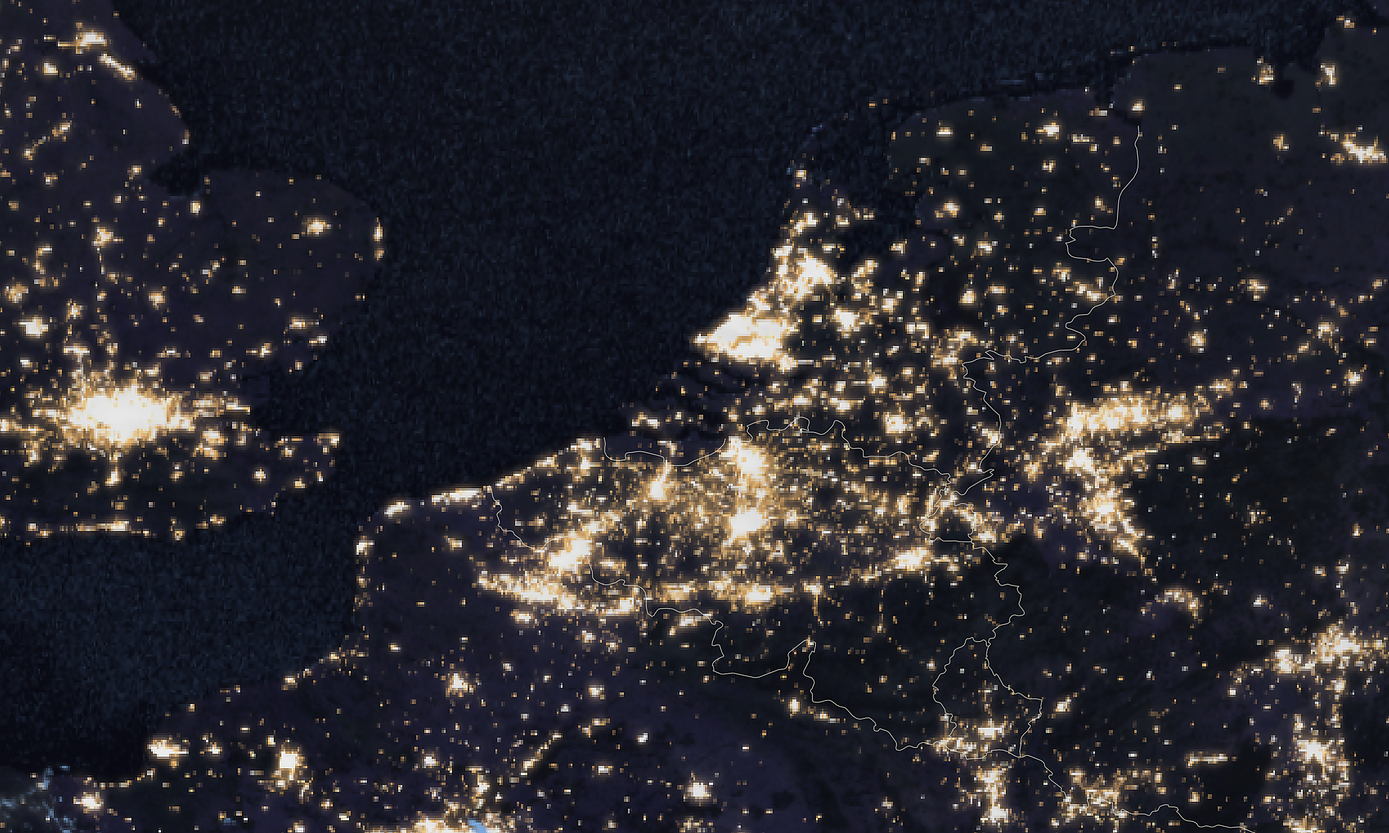
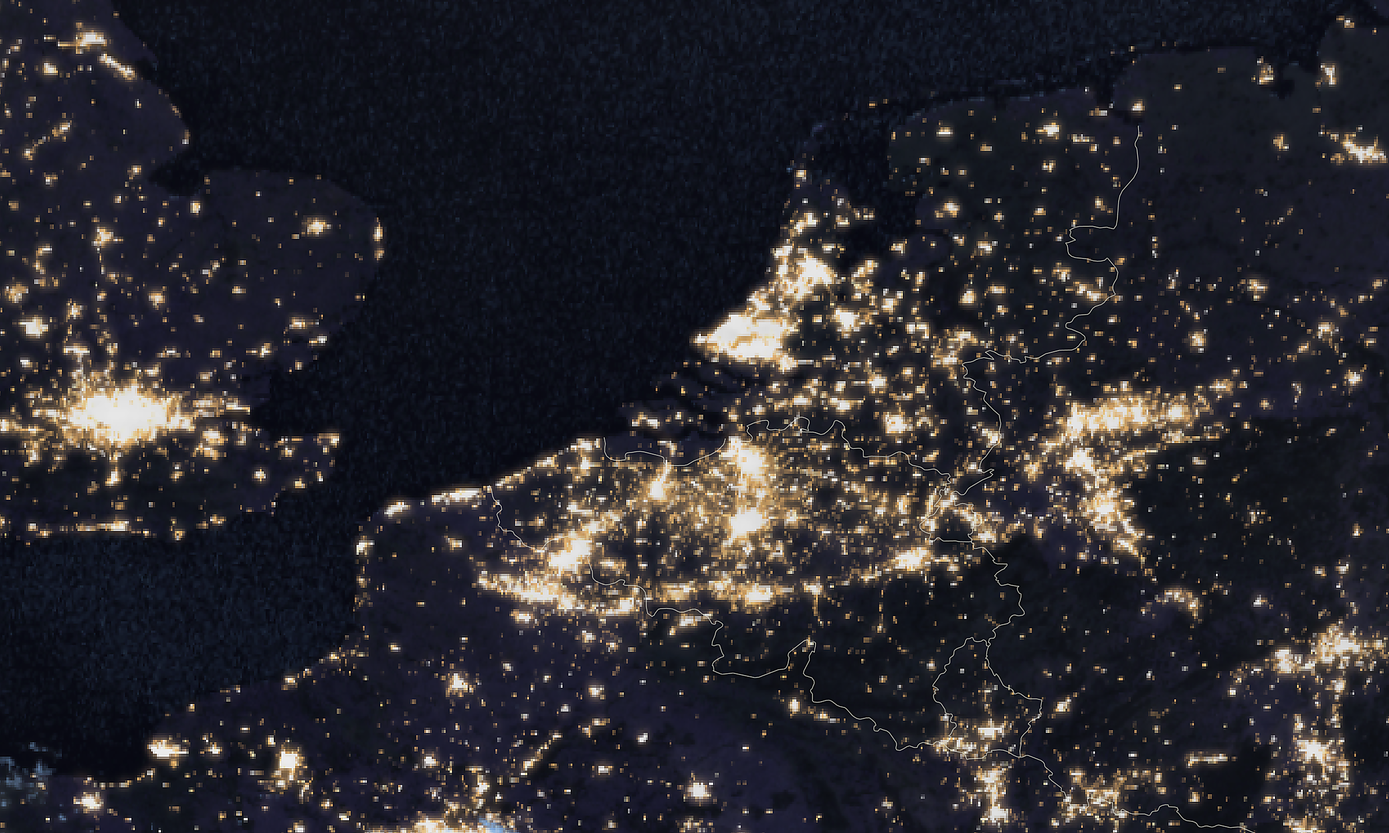
MTG Benelux satellietbeeld update 2026-05-01 03:00

Changed region(s): [[0.0, 0.9062, 0.0625, 1.0], [0.3125, 0.9688, 0.375, 1.0]]

diff --git a/mtg_benelux_meta.js b/mtg_benelux_meta.js
@@ -1,2 +1,2 @@
 const MTG_BENELUX_PRODUCT = "mtg_fd:rgb_geocolour";
-const MTG_BENELUX_TIJD = "2026-05-01T00:20:00Z";
+const MTG_BENELUX_TIJD = "2026-05-01T00:40:00Z";
